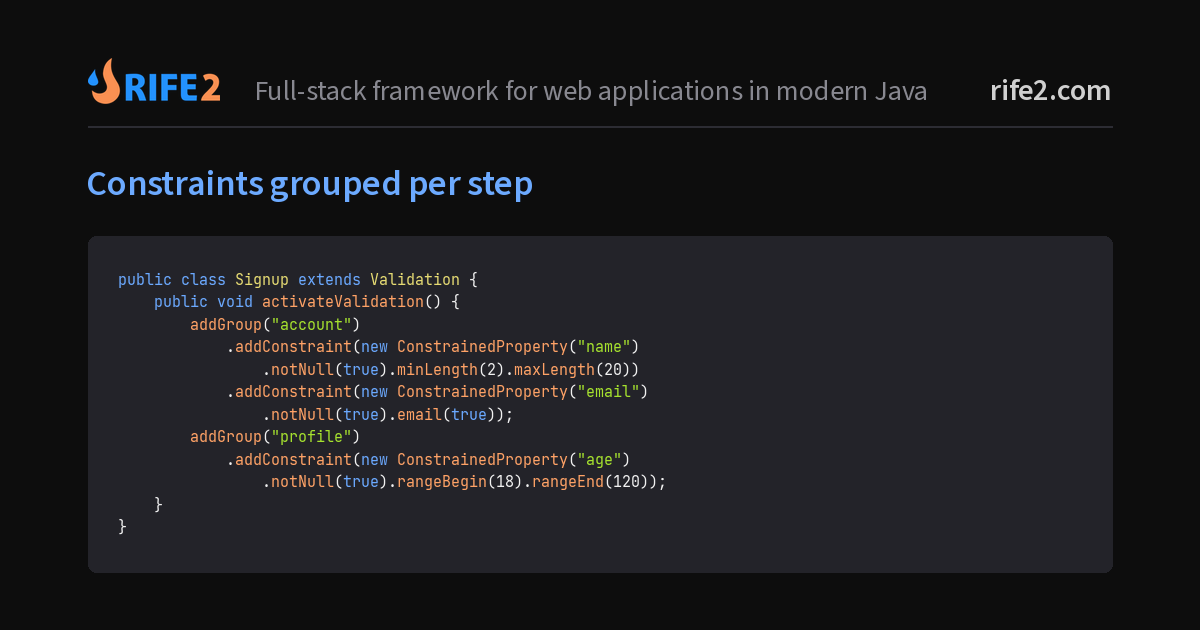
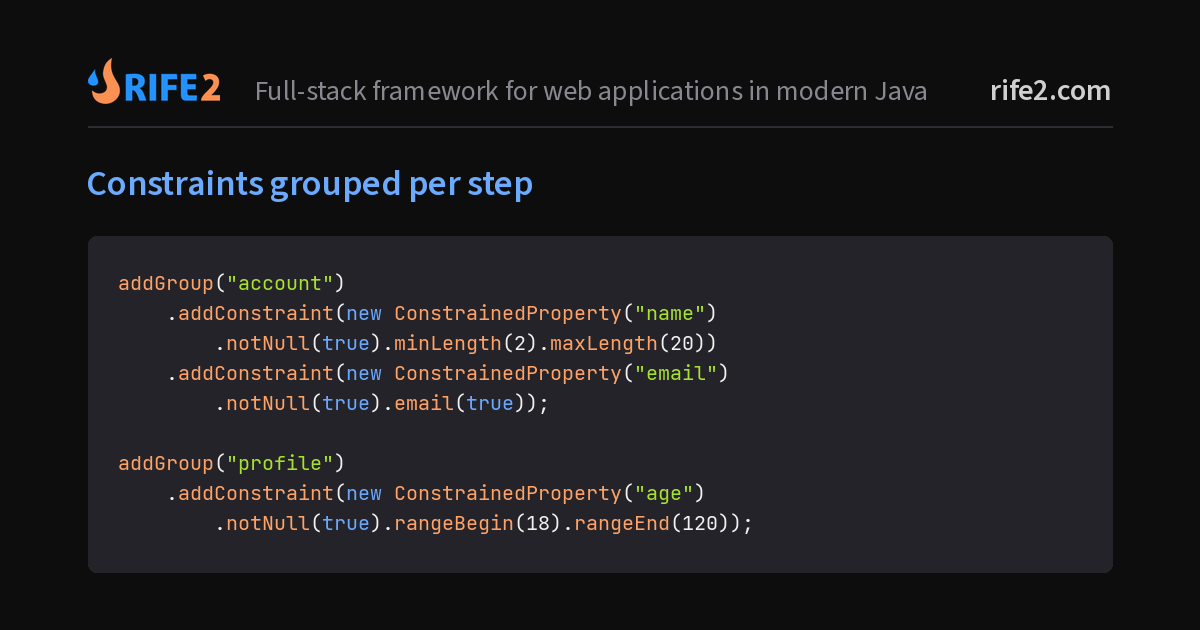
Refreshed the query builders and validation link previews
Validation sheds the class wrapper it never needed on a card, which lets the
snippet set at 20 point instead of 15 and stop wrapping, and the query builders
comment is a word shorter so it fits on one line.

Changed region(s): [[0.0925, 0.4222, 0.6167, 0.8444]]

diff --git a/src/bld/java/rifers/RifersBuild.java b/src/bld/java/rifers/RifersBuild.java
@@ -14,7 +14,7 @@ public class RifersBuild extends WebProject {
         name = "Rifers";
         mainClass = "rifers.RifersSite";
         uberJarMainClass = "rifers.RifersSiteUber";
-        version = version(2,1,0);
+        version = version(2,1,1);
 
         downloadSources = true;
         autoDownloadPurge = true;
